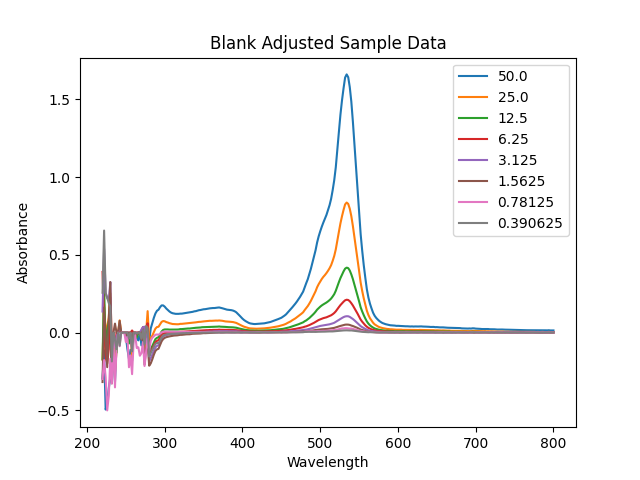
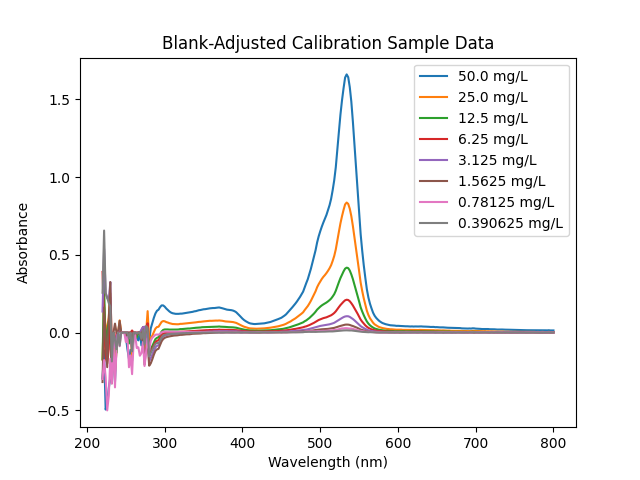
Refactor and add tests

Changed region(s): [[0.25, 0.0625, 0.875, 0.5], [0.4062, 0.9375, 0.5938, 1.0]]

diff --git a/main.py b/main.py
@@ -1,85 +1,40 @@
-from pandas import concat
-from numpy import asarray
 from sklearn.linear_model import LinearRegression
-from matplotlib.pyplot import close, legend, plot, savefig, title, xlabel, ylabel
-from average_sample_replicates import average_replicates
-from ingest_data import ingest_data
+
+from src.average_sample_replicates import average_replicates
+from src.blank_correction import (set_concentration_in_dataframe,
+                                  subtract_blanks_from_sample)
+from src.ingest_data import ingest_data
+from src.plot_data import (plot_calibration_curve,
+                           plot_corrected_calibration_data,
+                           plot_raw_calibration_data)
 
 calibration_data = ingest_data("data/calibration.csv")
-calibration = average_replicates(calibration_data)
 
-blank = calibration.loc[calibration["Sample"] == "Blank"]
-blank["Concentration"] = "Blank"
-samples = calibration.loc[calibration["Sample"] != "Blank"]
-samples["Concentration"] = 50 / samples["Dilution"]
-full = concat([blank, samples])
-full = full.drop(columns=["Dilution", "Sample"]).set_index("Concentration")
+averaged_calibration = average_replicates(calibration_data)
 
-print(full)
+raw_calibration_samples = set_concentration_in_dataframe(averaged_calibration)
+plot_raw_calibration_data(raw_calibration_samples)
 
-adjusted = full - full.loc["Blank"].values.squeeze()
-adjusted = adjusted.drop(["Blank"])
-wavelength = asarray(adjusted.columns, float)
+corrected_calibration_data = subtract_blanks_from_sample(raw_calibration_samples)
+plot_corrected_calibration_data(corrected_calibration_data)
 
-plot(wavelength, adjusted.loc[50.0], label="50.0")
-plot(wavelength, adjusted.loc[25.0], label="25.0")
-plot(wavelength, adjusted.loc[12.5], label="12.5")
-plot(wavelength, adjusted.loc[6.25], label="6.25")
-plot(wavelength, adjusted.loc[3.125], label="3.125 ")
-plot(wavelength, adjusted.loc[1.5625], label="1.5625")
-plot(wavelength, adjusted.loc[0.78125], label="0.78125")
-plot(wavelength, adjusted.loc[0.390625], label="0.390625")
-
-legend()
-title("Blank Adjusted Sample Data")
-xlabel("Wavelength")
-ylabel("Absorbance")
-savefig("results/Blank Adjusted Samples")
-close()
-
-wavelength_raw = asarray(full.columns, float)
-plot(wavelength_raw, full.loc[50.0], label="50.0")
-plot(wavelength_raw, full.loc[25.0], label="25.0")
-plot(wavelength_raw, full.loc[12.5], label="12.5")
-plot(wavelength_raw, full.loc[6.25], label="6.25")
-plot(wavelength_raw, full.loc[3.125], label="3.125 ")
-plot(wavelength_raw, full.loc[1.5625], label="1.5625")
-plot(wavelength_raw, full.loc[0.78125], label="0.78125")
-plot(wavelength_raw, full.loc[0.390625], label="0.390625")
-plot(wavelength_raw, full.loc["Blank"], label="Blank")
-
-legend()
-title("Raw Sample Data")
-xlabel("Wavelength")
-ylabel("Absorbance")
-savefig("results/Raw Data")
-close()
-
-adjusted = adjusted.drop(adjusted.loc[:, '220':'300'].columns, axis=1)
-adjusted['Maximum Absorbance Wavelength'] = adjusted.idxmax(axis = 1)
-print(adjusted)
-
-
-concentration = adjusted.index.values
-absorbance = adjusted['534'].values
-plot(concentration, absorbance)
-title("Calibration Curve 534 nm")
-xlabel("Concentration")
-ylabel("Absorbance")
-savefig("results/Calibration Curve")
-close()
+corrected_calibration_data = corrected_calibration_data.drop(
+    corrected_calibration_data.loc[:, "220":"300"].columns, axis=1
+)
+corrected_calibration_data["Maximum Absorbance Wavelength"] = corrected_calibration_data.idxmax(axis=1)
+print(corrected_calibration_data["Maximum Absorbance Wavelength"])
+optimal_wavelength = str(corrected_calibration_data.loc[50.0]["Maximum Absorbance Wavelength"])
+concentration = corrected_calibration_data.index.values
+absorbance = corrected_calibration_data[optimal_wavelength].values
+plot_calibration_curve(concentration, absorbance, optimal_wavelength)
 
 sample_data = ingest_data("data/sample.csv")
-sample = average_replicates(sample_data)
-
-sample = sample.drop(columns=["Dilution"]).set_index("Sample")
-
-adjusted_samples = sample.loc["X1"] - sample.loc["Blank"]
-
-sample_X1 = adjusted_samples.loc['534']
+samples_averaged = average_replicates(sample_data)
+samples_averaged = samples_averaged.drop(columns=["Dilution"]).set_index("Sample")
+samples_minus_blanks = subtract_blanks_from_sample(samples_averaged)
+sample_minus_blanks_values = samples_minus_blanks[optimal_wavelength].values
 
 calibration_model = LinearRegression().fit(absorbance.reshape(-1, 1), concentration.reshape(-1, 1))
+concentration_prediction = calibration_model.predict(sample_minus_blanks_values.reshape(-1, 1))
 
-y_pred = calibration_model.predict(sample_X1.reshape(-1, 1))
-
-print('The concentration of the pigment sample is ', y_pred[0][0], ' mg/L')
+print(f"The concentration of the pigment sample is {concentration_prediction[0][0]} mg/L")

diff --git a/src/plot_data.py b/src/plot_data.py
@@ -1,0 +1,82 @@
+from matplotlib.pyplot import (close, legend, plot, savefig, title, xlabel,
+                               ylabel)
+from numpy import asarray
+from pandas import DataFrame
+
+
+def plot_raw_calibration_data(calibration_raw: DataFrame):
+    """
+    The plot_raw_calibration_data function plots the raw calibration data.
+
+    Args:
+        calibration_raw: DataFrame: Pass the dataframe containing the raw calibration data
+
+    Returns:
+        A plot of the raw data
+    """
+    wavelength_raw = asarray(calibration_raw.columns, float)
+    plot(wavelength_raw, calibration_raw.loc[50.0], label="50.0 mg/L")
+    plot(wavelength_raw, calibration_raw.loc[25.0], label="25.0 mg/L")
+    plot(wavelength_raw, calibration_raw.loc[12.5], label="12.5 mg/L")
+    plot(wavelength_raw, calibration_raw.loc[6.25], label="6.25 mg/L")
+    plot(wavelength_raw, calibration_raw.loc[3.125], label="3.125 mg/L")
+    plot(wavelength_raw, calibration_raw.loc[1.5625], label="1.5625 mg/L")
+    plot(wavelength_raw, calibration_raw.loc[0.78125], label="0.78125 mg/L")
+    plot(wavelength_raw, calibration_raw.loc[0.390625], label="0.390625 mg/L")
+    plot(wavelength_raw, calibration_raw.loc["Blank"], label="Blank")
+
+    legend()
+    title("Raw Calibration Sample Data")
+    xlabel("Wavelength (nm)")
+    ylabel("Absorbance")
+    savefig("results/Raw Data")
+    close()
+
+
+def plot_corrected_calibration_data(corrected_calibration_data: DataFrame):
+    """
+    The plot_corrected_calibration_data function plots the corrected calibration data.
+
+    Args:
+        corrected_calibration_data: DataFrame: Plot the corrected calibration data
+
+    Returns:
+        The plot of the corrected calibration data
+    """
+    wavelength = asarray(corrected_calibration_data.columns, float)
+    plot(wavelength, corrected_calibration_data.loc[50.0], label="50.0 mg/L")
+    plot(wavelength, corrected_calibration_data.loc[25.0], label="25.0 mg/L")
+    plot(wavelength, corrected_calibration_data.loc[12.5], label="12.5 mg/L")
+    plot(wavelength, corrected_calibration_data.loc[6.25], label="6.25 mg/L")
+    plot(wavelength, corrected_calibration_data.loc[3.125], label="3.125 mg/L")
+    plot(wavelength, corrected_calibration_data.loc[1.5625], label="1.5625 mg/L")
+    plot(wavelength, corrected_calibration_data.loc[0.78125], label="0.78125 mg/L")
+    plot(wavelength, corrected_calibration_data.loc[0.390625], label="0.390625 mg/L")
+
+    legend()
+    title("Blank-Adjusted Calibration Sample Data")
+    xlabel("Wavelength (nm)")
+    ylabel("Absorbance")
+    savefig("results/Blank Adjusted Samples")
+    close()
+
+
+def plot_calibration_curve(concentration, absorbance, wavelength):
+    """
+    The plot_calibration_curve function takes in the concentration and absorbance data from a given wavelength,
+    and plots it on a graph. It then saves the graph as an image file for the selected wavelength.
+
+    Args:
+        concentration: Plot the x-axis of the calibration curve
+        absorbance: Plot the absorbance of a certain wavelength
+        wavelength: Create a title and file name for the plot
+
+    Returns:
+        A plot of the calibration curve
+    """
+    plot(concentration, absorbance)
+    title(f"Calibration Curve {wavelength} nm")
+    xlabel("Concentration (mg/L)")
+    ylabel("Absorbance")
+    savefig(f"results/Calibration Curve {wavelength} nm")
+    close()

diff --git a/src/blank_correction.py b/src/blank_correction.py
@@ -1,0 +1,37 @@
+from pandas import DataFrame, concat
+
+
+def subtract_blanks_from_sample(dataframe: DataFrame) -> DataFrame:
+    """
+    The subtract_blanks_from_sample function takes a dataframe of sample values and subtracts the blank value from each sample.
+    The function returns a new dataframe with the adjusted values.
+
+    Args:
+        dataframe: DataFrame: Specify the dataframe that is being passed into the function
+
+    Returns:
+        A new dataframe with the blank values subtracted from each sample
+    """
+    adjusted: DataFrame = dataframe - dataframe.loc["Blank"].values.squeeze()
+    return adjusted.drop(["Blank"])
+
+
+def set_concentration_in_dataframe(dataframe: DataFrame) -> DataFrame:
+    """
+    The set_concentration_in_dataframe function takes a dataframe as input and returns a new dataframe with the
+    concentration of each sample set in the index. The concentration is calculated by dividing 50 by the dilution factor.
+    The blank samples are given an arbitrary concentration value of "Blank".
+
+    Args:
+        dataframe: DataFrame: Pass the dataframe into the function
+
+    Returns:
+        A dataframe with the concentration column set as the index
+    """
+    blank = dataframe.loc[dataframe["Sample"] == "Blank"]
+    samples = dataframe.loc[dataframe["Sample"] != "Blank"]
+    blank["Concentration"] = "Blank"
+    samples["Concentration"] = 50 / samples["Dilution"]
+    all_samples = concat([blank, samples])
+    all_samples = all_samples.drop(columns=["Dilution", "Sample"]).set_index("Concentration")
+    return all_samples

diff --git a/tests/test_blank_correction.py b/tests/test_blank_correction.py
@@ -1,0 +1,13 @@
+from src.average_sample_replicates import average_replicates
+from src.blank_correction import (set_concentration_in_dataframe,
+                                  subtract_blanks_from_sample)
+from src.ingest_data import ingest_data
+
+
+def test_subtract_blanks_from_sample_success():
+    csv = "data/calibration.csv"
+    dataframe = ingest_data(csv)
+    averaged_samples = average_replicates(dataframe)
+    samples_with_index = set_concentration_in_dataframe(averaged_samples)
+    corrected_samples_data = subtract_blanks_from_sample(samples_with_index)
+    assert "Blank" not in corrected_samples_data.index

diff --git a/src/average_sample_replicates.py b/src/average_sample_replicates.py
@@ -13,5 +13,4 @@ def average_replicates(dataframe: DataFrame) -> DataFrame:
         A dataframe with the averages of the replicates for each sample and dilution
     """
     dataframe = dataframe.drop(columns=["Well"])
-    averages = (dataframe.groupby(["Sample", "Dilution"]).mean()).reset_index()
-    return averages
+    return (dataframe.groupby(["Sample", "Dilution"]).mean()).reset_index()

diff --git a/src/ingest_data.py b/src/ingest_data.py
@@ -4,7 +4,7 @@ from pandas import DataFrame, read_csv
 def ingest_data(input_file: str) -> DataFrame:
     """
     The ingest_data function reads in the data from a CSV file and returns it as a Pandas DataFrame.
-    
+
     Args:
         input_file: str: Specify the file path of the input data
     Returns:

diff --git a/tests/test_ingest_data.py b/tests/test_ingest_data.py
@@ -1,0 +1,7 @@
+from src.ingest_data import ingest_data
+
+
+def test_ingest_data():
+    csv = "data/calibration.csv"
+    dataframe = ingest_data(csv)
+    assert dataframe.columns[0] == "Well"

diff --git a/README.md b/README.md
@@ -4,7 +4,15 @@
 
 This code uses a spectrophotometry calibration dataset for a known pigment to determine the relationship between absorbance readings and known pigment concentrations to build a model to calculate the concentration of unknown samples. 
 
+Running the code ingests calibration and sample datasets, reformats the datasets to set the indexes with appropriate data labels, averages the replicates for each sample, and plots the absorbance values against wavelength for raw data and blank-corrected data. A model is constructed using the calibration data and the concentration of the unknown sample is shown in a printed statement (in the example case for sample X1: 44.08970187274605 mg/L). 
+
 ### Model Assumptions
+
+Plotting the raw data shows that the solvent (and all non-adjusted samples) show high absorbance values in the range of 220-300 nm, which is assumed to be "noise". Some noise is still shown in this range in the blank adjusted samples. All values in the wavelength range 220-300 nm were therefore excluded from use in the model. 
+
+The model assumes that the optimal wavelength to select for a model calibration curve is the wavelength which shows the maximum absorbance values across the known sample conentrations (printed to show that this is consistent across the concentration curve). This figure is selected from the highest concentration row (50.0 mg/L) and used in the subsequent model and calculation.
+
+The model (Linear Regression) assumes that the relationship between the absorbance and sample concentration is linear (this was confirmed by plotting the calibration data for the selected wavelength), and that the sample concentration falls within the calibration range. 
 
 ### Setup
 
@@ -21,4 +29,4 @@ This code uses a spectrophotometry calibration dataset for a known pigment to de
 
 ### Linting
 
-`black . && isort .`
+`black . -l 120 && isort .`
